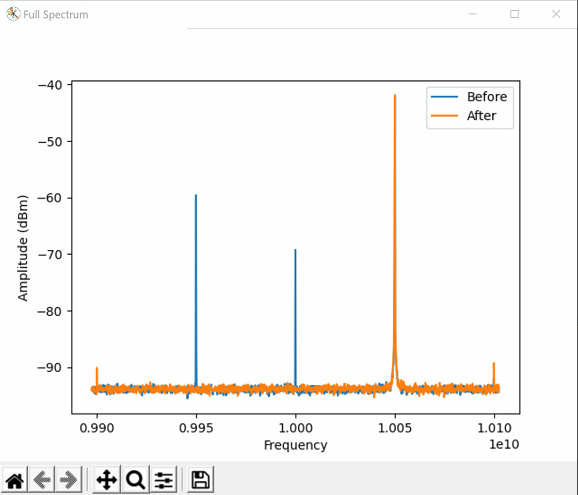
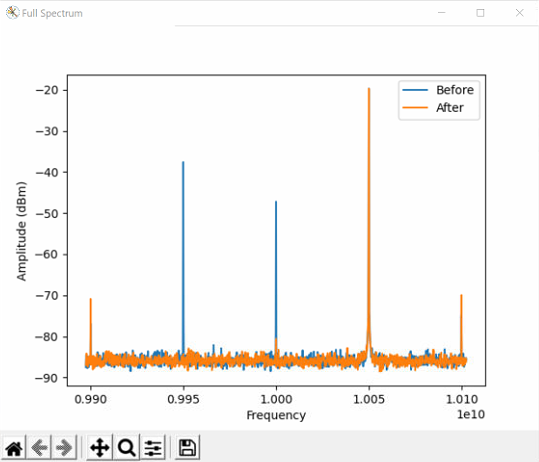
Improved measurement

diff --git a/examples/mixer-calibration/fieldfox_mixer_calibration.py b/examples/mixer-calibration/fieldfox_mixer_calibration.py
@@ -9,6 +9,35 @@ import numpy as np
 import pyvisa as visa
 import scipy.optimize as opti
 
+##############
+# Parameters #
+##############
+
+# Parameters for Nelder-Mead
+initial_simplex = np.zeros([3, 2])
+initial_simplex[0, :] = [0, 0]
+initial_simplex[1, :] = [0, 0.1]
+initial_simplex[2, :] = [0.1, 0]
+xatol = 1e-4  # 1e-4 change in DC offset or gain/phase
+fatol = 3  # dB change tolerance
+maxiter = 50  # 50 iterations should be more then enough, but can be changed.
+
+# Parameters for SA - Measurement:
+measIBW = 1000  # Measurement integration bandwidth
+measNumPoints = 101
+
+# Parameters for SA - Sweep:
+bDoSweeps = True  # If True, performs a large sweep before and after the optimization.
+fullNumPoints = 1201
+fullSpan = int(abs(qubit_IF * 4.1))  # Larger than 4 such that we'll see spurs
+startFreq = qubit_LO - fullSpan / 2
+stopFreq = qubit_LO + fullSpan / 2
+freq_vec = np.linspace(float(startFreq), float(stopFreq), int(fullNumPoints))
+
+# Open connection to SA
+rm = visa.ResourceManager()
+sa = rm.open_resource('TCPIP0::192.168.1.9::inst0::INSTR')
+sa.timeout = 100000
 
 #############
 # Functions #
@@ -20,10 +49,11 @@ with program() as mixer_cal:
 
 
 def get_amp():
-    sa.write("INIT:IMM;*OPC?")
-    sa.read()
-    sa.write(f'CALC:MARK1:Y?')
-    sig = float(sa.read())
+    sa.query("INIT:IMM;*OPC?")
+    sig = float(sa.query("CALC:MEAS:DATA?").split(",")[0])
+    # Data from the Fieldfox comes out as a string separated by ',':
+    # '-1.97854112E+01,-3.97854112E+01\n'
+    # The code above takes the first value and converts to float.
     return sig
 
 
@@ -49,125 +79,90 @@ qmm = QuantumMachinesManager()
 qm = qmm.open_qm(config)
 job = qm.execute(mixer_cal)
 
-# Configure the SA :
-numPoints = 1201
-span = int(abs(qubit_IF * 4.1))
-startFreq = qubit_LO-span/2
-stopFreq = qubit_LO+span/2
-freq_vec = np.linspace(float(startFreq), float(stopFreq), int(numPoints))
-
-rm = visa.ResourceManager()
-sa = rm.open_resource('TCPIP0::192.168.1.9::inst0::INSTR')
-sa.timeout = 100000
-# Set Bandwidth and start/stop freq of SA
+# Set video bandwidth to be automatic and bandwidth to be manual. Disable continuous mode
 sa.write('SENS:BAND:VID:AUTO 1')
 sa.write('SENS:BAND:AUTO 0')
-sa.write('SENS:BAND 1e3')
-sa.write("SENS:SWE:POIN " + str(numPoints))
-sa.write("SENS:FREQ:START " + str(startFreq))
-sa.write("SENS:FREQ:STOP " + str(stopFreq))
+sa.query("INIT:CONT OFF;*OPC?")
 
-time.sleep(2)
+if bDoSweeps:
+    # Set Bandwidth and start/stop freq of SA for a large sweep
+    sa.write('SENS:BAND 1e3')
+    sa.write("SENS:SWE:POIN " + str(fullNumPoints))
+    sa.write("SENS:FREQ:START " + str(startFreq))
+    sa.write("SENS:FREQ:STOP " + str(stopFreq))
 
-# Do a single read
-sa.write("INIT:CONT OFF;*OPC?")
-sa.read()
+    # Do a single read
+    sa.query("INIT:IMM;*OPC?")
 
-sa.write("INIT:IMM;*OPC?")
-sa.read()
+    # Query the FieldFox response data
+    sa.write("TRACE:DATA?")
+    ff_SA_Trace_Data = sa.read()
+    # Data from the Fieldfox comes out as a string separated by ',':
+    # '-1.97854112E+01,-3.97854112E+01,-2.97454112E+01,-4.92543112E+01,-5.17254112E+01,-1.91254112E+01...\n'
+    # The code below turns it into an a python list of floats
 
-# Query the FieldFox response data
-sa.write("TRACE:DATA?")
-ff_SA_Trace_Data = sa.read()
+    # Use split to turn long string to an array of values
+    ff_SA_Trace_Data_Array = ff_SA_Trace_Data.split(",")
+    amp = [float(i) for i in ff_SA_Trace_Data_Array]
 
-# Use split to turn long string to an array of values
-ff_SA_Trace_Data_Array = ff_SA_Trace_Data.split(",")
-amp = [float(i) for i in ff_SA_Trace_Data_Array]
-plt.figure('Full Spectrum')
-plt.xlabel("Frequency")
-plt.ylabel("Amplitude (dBm)")
-plt.plot(freq_vec, amp)
-plt.show()
+    plt.figure('Full Spectrum')
+    plt.xlabel("Frequency")
+    plt.ylabel("Amplitude (dBm)")
+    plt.plot(freq_vec, amp)
+    plt.show()
 
-# Get signal - change BW and start stop to be around image
-sa.write('SENS:BAND 1e1')
-sa.write(f"SENS:SWE:POIN 41")
-sa.write(f"SENS:FREQ:START {qubit_LO+qubit_IF-100}")
-sa.write(f"SENS:FREQ:STOP {qubit_LO+qubit_IF+100}")
+# Configure measure
+sa.write("SENS:MEAS:CHAN CHP")
+sa.write("SENS:SWE:POIN " + str(measNumPoints))
+sa.write("SENS:CME:RRCF 0")
+sa.write(f"SENS:CME:IBW {measIBW}")
+sa.write("SENS:CME:AVER:ENAB 0")
+sa.write(f"SENS:FREQ:SPAN {10 * measIBW}")
+sa.write(f'SENS:BAND {int(0.1 * measIBW)}')
 
-# Set marker
-sa.write("INIT:IMM;*OPC?")
-sa.read()
-sa.write('CALC:MARK1:ACT')
-sa.write(f'CALC:MARK1:X {qubit_LO + qubit_IF}')  # Signal
+# Get Signal
+sa.write(f"SENS:FREQ:CENT {qubit_LO + qubit_IF}")
 signal = int(get_amp())
 
-# LO leakage optimize - change BW and start stop to be around LO leakage
-sa.write('SENS:BAND 1e1')
-sa.write(f"SENS:SWE:POIN 41")
-sa.write(f"SENS:FREQ:START {qubit_LO-100}")
-sa.write(f"SENS:FREQ:STOP {qubit_LO+100}")
-
-# Set marker
-sa.write("INIT:IMM;*OPC?")
-sa.read()
-sa.write('CALC:MARK1:ACT')
-sa.write(f'CALC:MARK1:X {qubit_LO}')  # Leakage
-
-# Initial simplex for Nelder-Mead
-initial_simplex = np.zeros([3, 2])
-initial_simplex[0, :] = [0, 0]
-initial_simplex[1, :] = [0, 0.1]
-initial_simplex[2, :] = [0.1, 0]
-
 # Optimize LO leakage
+sa.write(f"SENS:FREQ:CENT {qubit_LO}")
 start_time = time.time()
 fun_leakage = lambda x: get_leakage(x[0], x[1])
-res_leakage = opti.minimize(fun_leakage, [0, 0], method='Nelder-Mead', options={'xatol': 1e-4, 'fatol': 3, 'initial_simplex': initial_simplex, 'maxiter': 50})
-print(f"LO --- I0 = {res_leakage.x[0]:.4f}, Q0 = {res_leakage.x[1]:.4f} --- "
+res_leakage = opti.minimize(fun_leakage, [0, 0], method='Nelder-Mead', options={'xatol': xatol, 'fatol': fatol, 'initial_simplex': initial_simplex, 'maxiter': maxiter})
+print(f"LO Leakage Results: Found a minimum of {int(res_leakage.fun)} dBm at I0 = {res_leakage.x[0]:.4f}, Q0 = {res_leakage.x[1]:.4f} in "
       f"{int(time.time() - start_time)} seconds --- {signal - int(res_leakage.fun)} dBc")
 
-# Image optimize - change BW and start stop to be around image
-sa.write('SENS:BAND 1e1')
-sa.write(f"SENS:SWE:POIN 41")
-sa.write(f"SENS:FREQ:START {qubit_LO-qubit_IF-100}")
-sa.write(f"SENS:FREQ:STOP {qubit_LO-qubit_IF+100}")
-
-# Set marker
-sa.write("INIT:IMM;*OPC?")
-sa.read()
-sa.write('CALC:MARK1:ACT')
-sa.write(f'CALC:MARK1:X {qubit_LO - qubit_IF}')  # Leakage
-
-# Optimize LO leakage
+# Optimize image
+sa.write(f"SENS:FREQ:CENT {qubit_LO - qubit_IF}")
 start_time = time.time()
 fun_image = lambda x: get_image(x[0], x[1])
-res_image = opti.minimize(fun_image, [0, 0], method='Nelder-Mead', options={'xatol': 1e-4, 'fatol': 3, 'initial_simplex': initial_simplex, 'maxiter': 50})
-print(f"Image --- g = {res_image.x[0]:.4f}, phi = {res_image.x[1]:.4f} --- "
+res_image = opti.minimize(fun_image, [0, 0], method='Nelder-Mead', options={'xatol': xatol, 'fatol': fatol, 'initial_simplex': initial_simplex, 'maxiter': maxiter})
+print(f"Image Results: Found a minimum of {int(res_image.fun)} dBm at g = {res_image.x[0]:.4f}, phi = {res_image.x[1]:.4f} in "
       f"{int(time.time() - start_time)} seconds --- {signal - int(res_image.fun)} dBc")
 
+# Turn measurement off
+sa.write("SENS:MEAS:CHAN NONE")
+
 # Set parameters back for a large sweep
-sa.write('SENS:BAND:VID:AUTO 1')
-sa.write('SENS:BAND:AUTO 0')
-sa.write('SENS:BAND 1e3')
-sa.write("SENS:SWE:POIN " + str(numPoints))
-sa.write("SENS:FREQ:START " + str(startFreq))
-sa.write("SENS:FREQ:STOP " + str(stopFreq))
-sa.write("INIT:IMM;*OPC?")
-sa.read()
+if bDoSweeps:
+    sa.write('SENS:BAND 1e3')
+    sa.write("SENS:SWE:POIN " + str(fullNumPoints))
+    sa.write("SENS:FREQ:START " + str(startFreq))
+    sa.write("SENS:FREQ:STOP " + str(stopFreq))
+    sa.query("INIT:IMM;*OPC?")
 
-# Do a large sweep
-sa.write("TRACE:DATA?")
-ff_SA_Trace_Data = sa.read()
-ff_SA_Trace_Data_Array = ff_SA_Trace_Data.split(",")
-amp = [float(i) for i in ff_SA_Trace_Data_Array]
-plt.figure('Full Spectrum')
-plt.plot(freq_vec, amp)
+    # Do a large sweep
+    sa.write("TRACE:DATA?")
+    ff_SA_Trace_Data = sa.read()
+    ff_SA_Trace_Data_Array = ff_SA_Trace_Data.split(",")
+    amp = [float(i) for i in ff_SA_Trace_Data_Array]
+    plt.figure('Full Spectrum')
+    plt.plot(freq_vec, amp)
 
-plt.legend(['Before', 'After'])
-plt.show()
+    plt.legend(['Before', 'After'])
+    plt.show()
 
-# Return the FieldFox back to free run trigger mode
+# Return the FieldFox back to continuous mode
 sa.write("INIT:CONT ON")
 
 # On exit clean a few items up.

diff --git a/examples/mixer-calibration/readme.md b/examples/mixer-calibration/readme.md
@@ -30,7 +30,7 @@ $$
 z(t) = z_I(t) + i z_Q(t)
 $$
 
-------------------------------------------------------------
+----------------------------------------------------------------
 > **_Example:_** : 
 > It is common have $z_I(t) = \text{cos} \left( \omega_{IF} t + \phi \right)$ and $z_Q(t) = \text{sin}\left(\omega_{IF}t + \phi \right)$.
 > This makes $z(t) = e^{i (\omega_{IF}t + \phi)}$ and:
@@ -72,7 +72,7 @@ Note that generally speaking, this creates two sidebands at the two sides of $\O
 We will treat the upper sideband as the signal, and the lower as the image, which can be removed by a proper choice of $z(t)$.
 Note that $a[\omega]$ represent the signal while $a^*[-\omega]$ represents the image.
 
-------------------------------------------------------------
+----------------------------------------------------------------
 > **_Example:_** : 
 > Looking back at the previous example (without the phase): 
 > 
@@ -250,8 +250,15 @@ for an automatic mixer calibration code, writen for a Keysight Fieldfox N9917A.
 It plays a CW pulse in an infinite loop, while probing the spectrum analyzer (SA) for the data, 
 and minimizes the LO leakage and image using SciPy minimize toolbox with a Nelder-Mead algorithem.
 
+----------------------------------------------------------------
+> **_Note:_** : 
+> It is important to have the LO source, the SA and the OPX locked to the same external reference clock.
+
+----------------------------------------------------------------
+
+
 ### SA Commands used in the script:
-These commands are written here such that it'll be easy to adapt the code to another SA.
+Most SA implement the same SCPI instrument commands. These commands are written here as reference.
 
 * "SENS:BAND:VID:AUTO 1" - Sets the video bandwidth to be automatic (same as the regular bandwidth)
 * "SENS:BAND:AUTO 0" - Sets the bandwidth to be manual
@@ -259,36 +266,43 @@ These commands are written here such that it'll be easy to adapt the code to ano
 * "SENS:SWE:POIN ???" - Sets the number of points for the sweep to be ???
 * "SENS:FREQ:START ???" - Sets the starting frequency for the sweep to be ???
 * "SENS:FREQ:STOP ???" - Sets the end frequency for the sweep to be ???
+* "SENS:FREQ:CENT ???" - Sets the center frequency to ???
+* "SENS:FREQ:SPAN ???" - Sets the frequency span to ???
 * "INIT:CONT OFF;*OPC?" - Sets the SA to single trigger (turn continuous off)
 * "INIT:CONT ON" - Sets the SA to continuous mode 
 * "INIT:IMM;*OPC?" - Perform a single sweep
 * "TRACE:DATA?" - Gets the full trace
-* "CALC:MARK1:ACT" - Activate marker #1
-* "CALC:MARK1:X ???" - Sets marker #1 to frequency ???
-* "CALC:MARK1:Y?" - Query marker #1
+* "SENS:MEAS:CHAN CHP" - Sets the measurement to Channel Power
+* "SENS:MEAS:CHAN None" - Disables the measurement
+* "SENS:CME:RRCF 0" - Turns of RRC Filter for the measurement
+* "SENS:CME:IBW ???" - Sets the integration bandwidth for the measurement to ???
+* "SENS:CME:AVER:ENAB 0" - Disables averaging for the measurement
 
 ### Detailed explanation of the code
-The code does not touch the Y scale of the SA, the number of averages, or the trigger settings. These have to be defined manually.
+The code does not touch the Y scale of the SA, or the trigger settings. These have to be defined manually if needed.
+All the parameters that may be modified are at the beginning of the file:
+* In most cases, only the connection to the SA needs to be modified.
+* The integration bandwidth, defined by the `measIBW`, can also be changed. There is always a tradeoff between speed and results, and it also depends on the model of the SA used.
+* `bDoSweeps` can be changed to `False` to disable the full sweeps before and after the optimizations.
 
 The code starts with the definition of the QUA program, and three functions:
-* get_amp() - Gets the amplitude at the current marker location
+* get_amp() - Gets the amplitude of the current measurement.
 * get_leakage(i0, q0) - Sets the DC offsets to i0 & q0 and gets the amplitude using get_amp()
 * get_image(g, p) - Sets the gain and phase mismatch to g & p and gets the amplitude using get_amp()
 
 Afterwards, the program is executed, the SA object is being created and parameters are being set for a large sweep to see the initial spectrum.
 We set the bandwidth to 1 kHz and we sweep a bit more than twice the IF frequency, this is such that we'll be able to see spurs coming from higher harmonics (if they are not negligible, the IF & LO power need tuning)
 
-After getting the initial trace, we set the bandwidth to 10Hz to get a low noise floor, take only 41 points 100 Hz around the LO leakage,
-set the marker to the Lo leakage, and then run the Nelder-Mead algorithm to minimize the leakage.  
+After getting the initial trace, we turn on the Channel Power measurement and configure it. 
+We then run the Nelder-Mead algorithm to minimize the leakage.  
 
 It then repeats for the image minimization, and finally takes another large trace to see the final spectrum after the minimization.
-Shown below is a demo run of the algorithm, it took ~46 seconds for the LO, lowering it to -79 dBc (relative to the signal).
-The image rejection took ~49 seconds, lowering it to -88 dBc.
+Shown below is a demo run of the algorithm, it took ~20 seconds each for the LO and image, lowering them to <-70 dBc (relative to the signal).
 
-The spurs at $\omega_{LO} \pm 2 \omega_{IF}$ are at around -50dBc, they can be reduced by decreasing the power arriving
+The spurs at $\omega_{LO} \pm 2 \omega_{IF}$ are at around -50 dBc, they can be reduced by decreasing the power arriving
 at the IQ ports.
 
-Note - In the image below the noise floor is at ~-60 dBc, but the optimization is done at a much lower bandwidth which
+Note - In the image below the noise floor is at ~-65 dBc, but the optimization is done at a much lower bandwidth which
 sets the noise floor at ~80-90 dBc.
 
 ![fieldfox_mixer_calibration](fieldfox_mixer_calibration.png)
